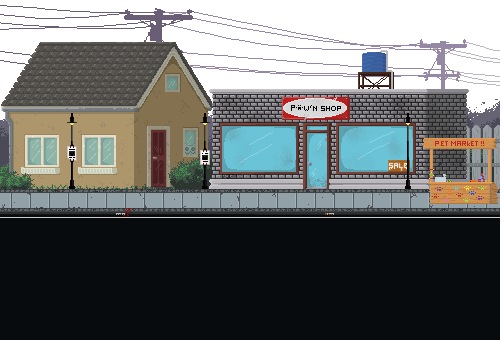
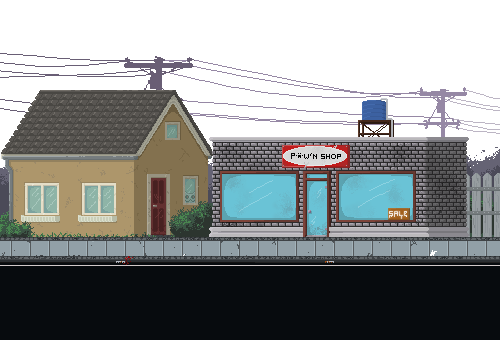
Add entity loading

diff --git a/src/LostAndFound.Core/Games/ZoneManager.cs b/src/LostAndFound.Core/Games/ZoneManager.cs
@@ -1,6 +1,9 @@
 using System;
 using System.Collections.Generic;
 using System.Linq;
+using Asepreadr.Aseprite;
+using Asepreadr.Loaders;
+using LostAndFound.Core.Extensions;
 using LostAndFound.Core.Games.Components;
 using LostAndFound.Core.Games.Entities;
 using LostAndFound.Core.Games.Models;
@@ -15,19 +18,22 @@ namespace LostAndFound.Core.Games
         public Action<ZoneType> ZoneChanged { get; set; }
 
         private readonly IZoneLoader _zoneLoader;
+        private readonly IContentLoader<AsepriteSpriteMap> _spriteMapLoader;
 
         private readonly IList<IZone> _zones = new List<IZone>();
         private const ZoneType StartingZone = ZoneType.Street;
         public IZone ActiveZone => _zones.First(x => x.ZoneType == _currentZone);
         private ZoneType _currentZone = StartingZone;
 
-        public ZoneManager(IZoneLoader zoneLoader)
+        public ZoneManager(IZoneLoader zoneLoader, IContentLoader<AsepriteSpriteMap> spriteMapLoader)
         {
             _zoneLoader = zoneLoader;
+            _spriteMapLoader = spriteMapLoader;
         }
 
         public void Load()
         {
+            var entitySpriteMap = _spriteMapLoader.GetContent("Assets\\Images\\entities.json");
             var zoneData = _zoneLoader.LoadZones();
 
             foreach (var zone in zoneData)
@@ -51,6 +57,19 @@ namespace LostAndFound.Core.Games
 
                     lightEntity.AddComponent(lightComponent);
                     newZone.Entities.Add(lightEntity);
+                }
+
+                var zoneEntities = zone.Colliders.Where(x => x.GetProperty("Entity") != null);
+
+                foreach (var collider in zoneEntities)
+                {
+                    var entity = new Entity(collider.Bounds.ToVector2());
+                    var staticDrawComponent = Program.Resolve<StaticDrawComponent>();
+                    var entityName = collider.Properties["Entity"];
+                    staticDrawComponent.Image = entitySpriteMap.CreateSpriteFromRegion(entityName);
+                    
+                    entity.AddComponent(staticDrawComponent);
+                    newZone.Entities.Add(entity);
                 }
 
                 _zones.Add(newZone);

diff --git a/src/LostAndFound.Core/Games/Components/PlayerControllerComponent.cs b/src/LostAndFound.Core/Games/Components/PlayerControllerComponent.cs
@@ -1,4 +1,5 @@
-using LostAndFound.Core.Extensions;
+using System.Linq;
+using LostAndFound.Core.Extensions;
 using LostAndFound.Core.Games.Entities;
 using LostAndFound.Core.Input;
 using Microsoft.Xna.Framework;
@@ -31,7 +32,6 @@ namespace LostAndFound.Core.Games.Components
             _inputManager = inputManager;
         }
 
-        
 
         public override void Start()
         {
@@ -90,28 +90,25 @@ namespace LostAndFound.Core.Games.Components
 
             var bounds = _boxColliderComponent.Bounds.Add(new Rectangle(xMove, 0, 0, 0));
 
-            foreach (var collider in _zoneManager.ActiveZone.Colliders)
+            var allColliders = _zoneManager.ActiveZone.Colliders.Where(x => x.GetProperty("Solid") != null)
+                .Select(x => x.Bounds).ToList();
+
+            foreach (var collider in allColliders)
             {
-                if (collider.GetProperty("Solid") != null)
+                if (collider.Intersects(bounds))
                 {
-                    if (collider.Bounds.Intersects(bounds))
-                    {
-                        var depth = bounds.GetIntersectionDepth(collider.Bounds);
-                        newPosition.X += depth.X;
-                    }
+                    var depth = bounds.GetIntersectionDepth(collider);
+                    newPosition.X += depth.X;
                 }
             }
 
             bounds = _boxColliderComponent.Bounds.Add(new Rectangle(0, yMove, 0, 0));
-            foreach (var collider in _zoneManager.ActiveZone.Colliders)
+            foreach (var collider in allColliders)
             {
-                if (collider.GetProperty("Solid") != null)
+                if (collider.Intersects(bounds))
                 {
-                    if (collider.Bounds.Intersects(bounds))
-                    {
-                        var depth = bounds.GetIntersectionDepth(collider.Bounds);
-                        newPosition.Y += depth.Y;
-                    }
+                    var depth = bounds.GetIntersectionDepth(collider);
+                    newPosition.Y += depth.Y;
                 }
             }
 

diff --git a/src/LostAndFound.Core/Games/Zones/Zone.cs b/src/LostAndFound.Core/Games/Zones/Zone.cs
@@ -30,7 +30,7 @@ namespace LostAndFound.Core.Games.Zones
                 return newList;
             }
         }
-
+        
         public void Update(GameTime gameTime)
         {
             foreach (var entity in _entitiesToRemove)
